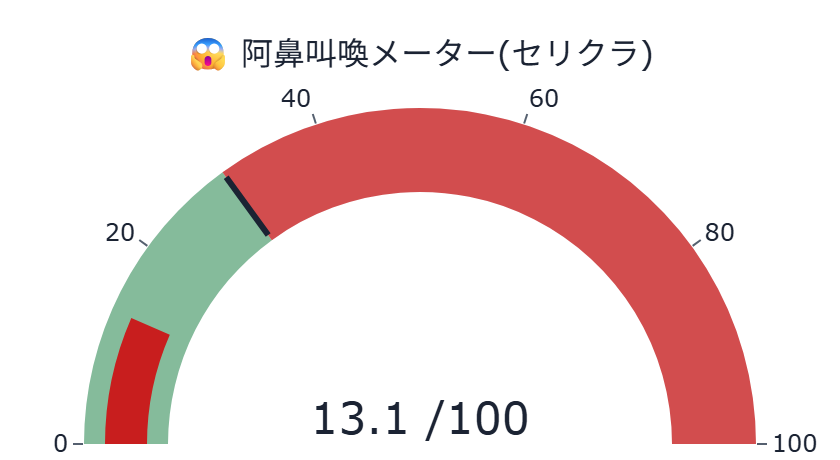
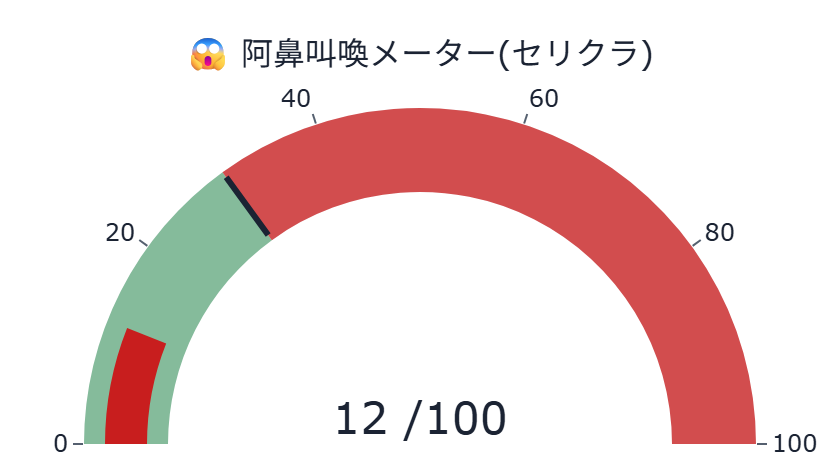
auto: refresh static dashboard (2026-08-25 04:35:18 JST)

Changed region(s): [[0.3714, 0.8522, 0.65, 0.9435], [0.1548, 0.7, 0.2167, 0.7609]]

diff --git a/docs/index.html b/docs/index.html
@@ -86,7 +86,7 @@
         <span class="price">50,930円</span>
         <span class="chg" style="color:#8B94A3">—</span>
       </div>
-      <p class="caption">更新時刻: 2026-08-25T04:24:24（データは1分間隔で自動生成され、このページも
+      <p class="caption">更新時刻: 2026-08-25T04:34:20（データは1分間隔で自動生成され、このページも
       60秒毎に自動再読み込みされます）</p>
       
       <p id='visit-count-badge' class='caption' style='display:none'></p>
@@ -118,8 +118,8 @@
 <div class='signal-row'><div class='signal-name'>イナゴ語彙(euphoria)<div class='signal-desc'>「爆上げ」「握力」等、熱狂・便乗を示す語彙が投稿にどれだけ含まれるか。</div></div><div class='signal-note'>euphoria指数1.6/100投稿</div><div><span style='display:inline-block;border-radius:999px;padding:2px 10px;font-size:.82em;font-weight:600;color:#fff;background:#15803D;white-space:nowrap'>OK (現在値1.60 / 閾値&gt;=5.5/100投稿)</span></div></div>
 <div class='signal-row'><div class='signal-name'>ネームド集中<div class='signal-desc'>特定の常連投稿者(ハッシュ化ID)に投稿が偏っていないか(少数の声が目立ちすぎていないか)。</div></div><div class='signal-note'>上位5人シェア11%</div><div><span style='display:inline-block;border-radius:999px;padding:2px 10px;font-size:.82em;font-weight:600;color:#fff;background:#C81E1E;white-space:nowrap'>発火 (現在値0.11 / 閾値&gt;=0.1)</span></div></div>
 <div class='signal-row'><div class='signal-name'>他銘柄混入率<div class='signal-desc'>本銘柄の掲示板で他の銘柄コードへの言及がどれだけ多いか(関心が他へ移りつつあるサイン)。</div></div><div class='signal-note'>他銘柄言及14% (関心離散のサイン)</div><div><span style='display:inline-block;border-radius:999px;padding:2px 10px;font-size:.82em;font-weight:600;color:#fff;background:#C81E1E;white-space:nowrap'>発火 (現在値0.14 / 閾値&gt;=0.11)</span></div></div>
-<div class='signal-row'><div class='signal-name'>暴落煽り語彙<div class='signal-desc'>「暴落」「終わった」等、悲観・煽りを示す語彙が投稿にどれだけ含まれるか。</div></div><div class='signal-note'>煽り指数4.2/100投稿</div><div><span style='display:inline-block;border-radius:999px;padding:2px 10px;font-size:.82em;font-weight:600;color:#fff;background:#C2570B;white-space:nowrap'>警戒 (現在値4.20 / 閾値&gt;=5.0/100投稿)</span></div></div>
-<div class='signal-row'><div class='signal-name'>阿鼻叫喚(セリクラ)<div class='signal-desc'>株価が安値圏にある中で悲観語彙が急増しているか(セリングクライマックスの兆候)。</div></div><div class='signal-note'>阿鼻叫喚スコア13.1 安値圏外</div><div><span style='display:inline-block;border-radius:999px;padding:2px 10px;font-size:.82em;font-weight:600;color:#fff;background:#15803D;white-space:nowrap'>OK (現在値13.10 / 閾値&gt;30)</span></div></div>
+<div class='signal-row'><div class='signal-name'>暴落煽り語彙<div class='signal-desc'>「暴落」「終わった」等、悲観・煽りを示す語彙が投稿にどれだけ含まれるか。</div></div><div class='signal-note'>煽り指数4.1/100投稿</div><div><span style='display:inline-block;border-radius:999px;padding:2px 10px;font-size:.82em;font-weight:600;color:#fff;background:#C2570B;white-space:nowrap'>警戒 (現在値4.10 / 閾値&gt;=5.0/100投稿)</span></div></div>
+<div class='signal-row'><div class='signal-name'>阿鼻叫喚(セリクラ)<div class='signal-desc'>株価が安値圏にある中で悲観語彙が急増しているか(セリングクライマックスの兆候)。</div></div><div class='signal-note'>阿鼻叫喚スコア12.0 安値圏外</div><div><span style='display:inline-block;border-radius:999px;padding:2px 10px;font-size:.82em;font-weight:600;color:#fff;background:#15803D;white-space:nowrap'>OK (現在値12.00 / 閾値&gt;30)</span></div></div>
 <div class='signal-row'><div class='signal-name'>話題枯れ<div class='signal-desc'>過去の平均と比べて本日の投稿数が著しく少ないか(閑散・関心低下のサイン)。</div></div><div class='signal-note'>投稿数z=-1.29 (負=閑散)</div><div><span style='display:inline-block;border-radius:999px;padding:2px 10px;font-size:.82em;font-weight:600;color:#fff;background:#C81E1E;white-space:nowrap'>発火 (現在値-1.29 / 閾値z&lt;-1)</span></div></div>
 <div class='signal-row'><div class='signal-name'>投稿サージ<div class='signal-desc'>過去の平均と比べて本日の投稿数が著しく多いか(急な注目集中のサイン)。</div></div><div class='signal-note'>投稿数z=-1.29 (量→ボラ予測が文献の主結果)</div><div><span style='display:inline-block;border-radius:999px;padding:2px 10px;font-size:.82em;font-weight:600;color:#fff;background:#15803D;white-space:nowrap'>OK (現在値-1.29 / 閾値z&gt;2)</span></div></div></div>
       <p class="caption">※研究・エンタメ用途・未検証。売買シグナルではありません。
@@ -150,22 +150,22 @@
       
 
       <h2>🤖 AI考察</h2>
-      <div class='metric-row'><div class='metric-card'><div class='metric-label'>株価</div><div class='metric-value'>50,930円</div><div class='metric-delta'>+0円</div></div><div class='metric-card'><div class='metric-label'>強気比率</div><div class='metric-value'>35.2%</div><div class='metric-delta'>+0.2pt</div></div><div class='metric-card'><div class='metric-label'>弱気比率</div><div class='metric-value'>55.4%</div><div class='metric-delta'>-0.1pt</div></div></div><p class='caption'>前回集計(2026-08-25T04:15:08)との比較</p>
-      <div class='ai-box'>本件は掲示板の集計センチメントデータに基づく分析であり、投資助言ではありません。<br>
+      <div class='metric-row'><div class='metric-card'><div class='metric-label'>株価</div><div class='metric-value'>50,930円</div><div class='metric-delta'>+0円</div></div><div class='metric-card'><div class='metric-label'>強気比率</div><div class='metric-value'>35.2%</div><div class='metric-delta'>+0.0pt</div></div><div class='metric-card'><div class='metric-label'>弱気比率</div><div class='metric-value'>55.5%</div><div class='metric-delta'>+0.1pt</div></div></div><p class='caption'>前回集計(2026-08-25T04:24:24)との比較</p>
+      <div class='ai-box'>本資料は掲示板の集計センチメントデータに基づく分析であり、投資助言ではありません。<br>
 <br>
-キオクシアホールディングス（285A）について、寄り付き前の現時点における掲示板の集計データを整理します。前営業日の終値は50,930.0円となっており、直近の日次推移を振り返ると、8月17日以降の価格変動に伴い、強気・弱気の比率が大きく推移していることが見て取れます。<br>
+キオクシアホールディングス（285A）について、寄り付き前の最新集計データを基に現状を整理します。前営業日の終値は50,930.0円となっており、直近の日次推移を見ると、8月17日以降の価格変動に伴い、強気・弱気の比率が大きく推移していることが確認できます。<br>
 <br>
-本日の掲示板集計では、投稿数は503件（投稿速度：100.6/時）となっており、強気比率は35.2%、弱気比率は55.4%と、弱気的な見方が優勢な状況です。前回集計時点（約7分前）との比較では、価格に変動はなく、強気比率が+0.2pt、弱気比率が-0.1ptと微増・微減しており、短時間でのセンチメントの大きな変化は見られません。<br>
+掲示板のセンチメントについては、現在「強気比率：35.2%」「弱気比率：55.5%」となっており、弱気な見方が優勢な状況です。過熱度スコアは7.1と低水準にあり、総悲観度スコアも12.0と落ち着いた数値を示しています。前回集計（約8分前）との比較では、価格および強気比率に変化はなく、投稿数も微増にとどまっており、短時間での急激な勢いの変化は見られません。<br>
 <br>
-ボラティリティ指標（BVP=0.183）については現在「calibrating（較正中）」となっており、現在の値動きの荒さを示すレジームが確定していない状態です。また、過熱度スコアは7.1、総悲観度スコアは13.1となっており、統計的な過熱感や極端な悲観傾向は現時点では限定的です。<br>
+シグナル発火状況を確認すると、いくつかの統計的な偏りが示されています。「ネームド集中」と「他銘柄混入率」が発火状態にあり、特定の層による関心の集中や、話題の分散が生じている可能性が示唆されています。また、「話題枯れ」も発火しており、投稿の勢いが停滞している傾向が見て取れます。これらは統計的な偏りを示すラベルであり、必ずしも市場全体の動向を確定させるものではありません。前営業日からの変化としては、ネームド集中や他銘柄混入率が「警戒」から「発火」へと進展しており、掲示板内の関心の質に変化が生じていることが伺えます。<br>
 <br>
-シグナル発火状況については、いくつかの項目で統計的な偏りが確認されています。「ネームド集中」および「他銘柄混入率」が「発火」しており、特定の層への関心の偏りや、話題の拡散・離散の兆候が見られます。また、「話題枯れ」も「発火」しており、投稿数のzスコアから見て一定の閑散状態にあることが示されています。前回取引日からの変化としては、ネームド集中と他銘柄混入率がともに「OK」から「発火」へと遷移しており、掲示板内の関心の質的な変化が伺えます。<br>
+ボラティリティのレジーム帯は現在「calibrating（較正中）」となっており、現在の値動きの変動幅を判断するための指標が調整段階にあることを示しています。なお、取引時間外の動向については、PTSで-2.16%、米国ADRで-1.37%と、前営業日の終値を基準に軟調な推移を見せています。<br>
 <br>
-なお、東証取引時間外の動きを確認すると、PTSでは前日終値比-2.16%（49,830.0円）、米国ADR円換算では-1.52%（50,156.0円）となっており、夜間・早朝の取引においては軟調な推移を見せています。</div><p class='caption'>生成時刻: 2026-08-25T04:24:24</p>
+以上の通り、現在の掲示板上では弱気的なセンチメントが目立つ一方で、投稿の勢いや話題の集中度には特有の統計的偏りが見られる状況です。</div><p class='caption'>生成時刻: 2026-08-25T04:34:20</p>
 
       <hr style="border:none;border-top:1px solid var(--border);margin:2rem 0 1rem">
       <p class="caption">⚠ 本情報は掲示板投稿を統計的に集計したものであり、投資助言ではありません。個別の投稿内容は含まれていません。研究・エンタメ用途です。</p>
-      <footer>生成: generate_static_dashboard.py（2026-08-25T04:34:24） /
+      <footer>生成: generate_static_dashboard.py（2026-08-25T04:35:09） /
       画像バックエンド: plotly+kaleido</footer>
     </div>
     <script>(function(){var url="https://script.google.com/macros/s/AKfycbwgSSGQ2n56ohmIYKlNDA1Xe3D8hd3GJbD0U90L4DGtXdb8pqrPokNMHJWjvN1__7bE/exec";var KEY='bbs_visit_counted';var already=sessionStorage.getItem(KEY);var action=already?'read':'hit';var ctrl=(typeof AbortController!=='undefined')?new AbortController():null;var timer=ctrl?setTimeout(function(){ctrl.abort();},5000):null;fetch(url+'?action='+action,{signal:ctrl?ctrl.signal:undefined}).then(function(r){if(timer)clearTimeout(timer);return r.json();}).then(function(data){if(!already)sessionStorage.setItem(KEY,'1');if(data&&typeof data.count==='number'){var el=document.getElementById('visit-count-badge');if(el){el.textContent='\u{1F440} \u7d2f\u8a08\u95b2\u89a7\u6570: '+data.count.toLocaleString();el.style.display='';}}}).catch(function(e){if(timer)clearTimeout(timer);console.warn('visit counter fetch failed (fail-soft):',e);});})();</script></body></html>
